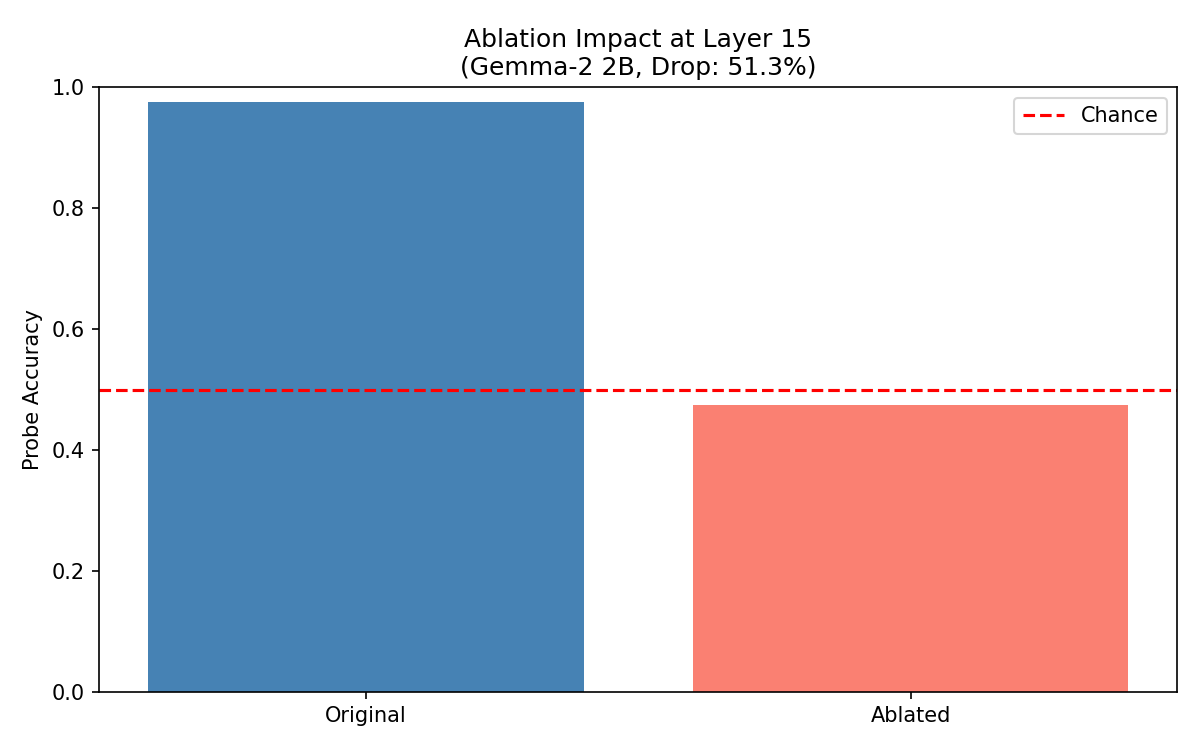
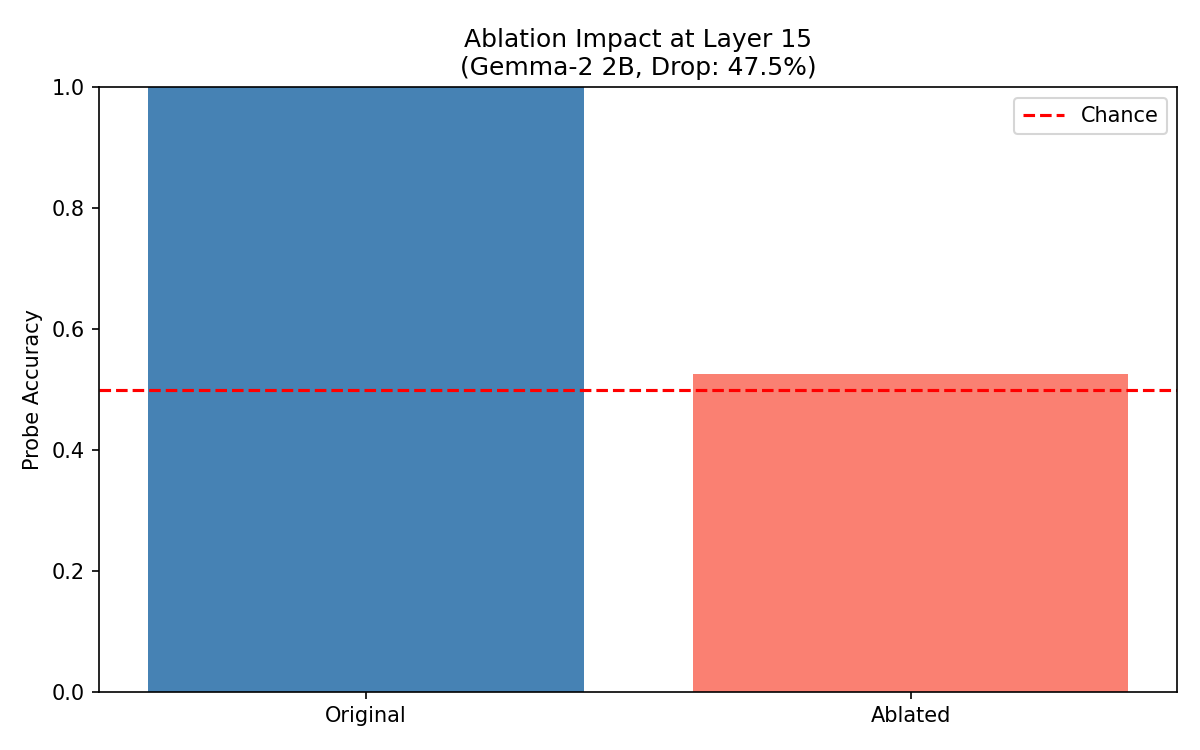
mini fix dataset ablation

Changed region(s): [[0.555, 0.4907, 0.9558, 0.552], [0.1233, 0.092, 0.4933, 0.1533], [0.5858, 0.0613, 0.6783, 0.092]]

diff --git a/src/intervention_tests.py b/src/intervention_tests.py
@@ -792,7 +792,7 @@ def evaluate_probe_on_ablated_activations(
     The drop from ~97.8% to ~46.5% (near chance) proves the humor direction is causally necessary,
     not just correlated with humor classification.
     """
-    from datasets import load_dataset
+    from datasets import load_dataset, concatenate_datasets
     display_name = get_display_name()
     
     print(f"\n{'='*60}")
@@ -804,11 +804,22 @@ def evaluate_probe_on_ablated_activations(
     intervention = HumorIntervention(model, humor_direction, layer)
     
     print("Loading test data...")
-    # Load ColBERT dataset (completely different from Dataset A)
-    dataset = load_dataset("CreativeLang/ColBERT_Humor_Detection")
-    data = dataset['train'].shuffle(seed=SEED).select(range(n_samples))
-    texts = [ex['text'] for ex in data]  # 200 text strings
-    labels = np.array([1 if ex['humor'] else 0 for ex in data])  # 200 binary labels
+    # Positives: ysharma/short_jokes (ID, Joke)
+    jokes = load_dataset("ysharma/short_jokes", split="train").shuffle(seed=SEED).select(range(100))
+    jokes = jokes.rename_column("Joke", "joke")
+    jokes = jokes.add_column("label", [1] * len(jokes))
+
+    # Negatives: ag_news (text, label)
+    news = load_dataset("ag_news", split="train").shuffle(seed=SEED).select(range(100))
+    news = news.rename_column("text", "joke")
+    news = news.rename_column("label", "topic_label")   
+    news = news.add_column("label", [0] * len(news))    # add binary label
+
+    data = concatenate_datasets([jokes, news]).shuffle(seed=SEED)
+    texts = [ex["joke"] for ex in data]
+    labels = np.array([ex["label"] for ex in data])
+    print("Class balance:", labels.sum(), "/", len(labels))  # should be 100 / 200
+
     
     print("Extracting original activations...")
     # Run all 200 texts through model NORMALLY (no intervention)
